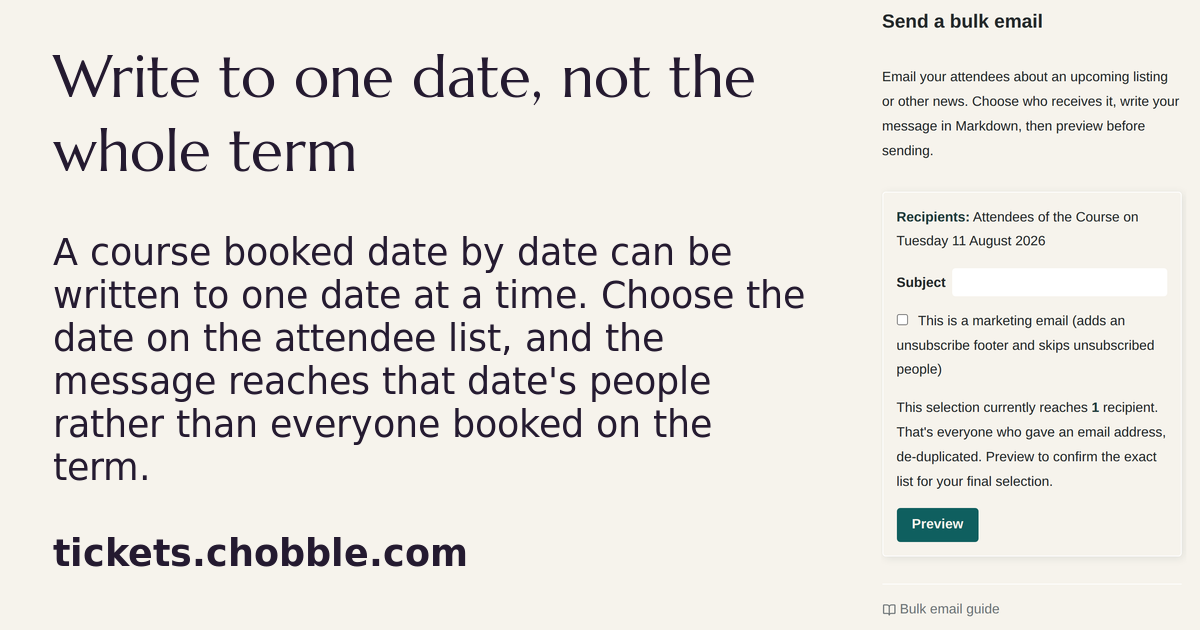
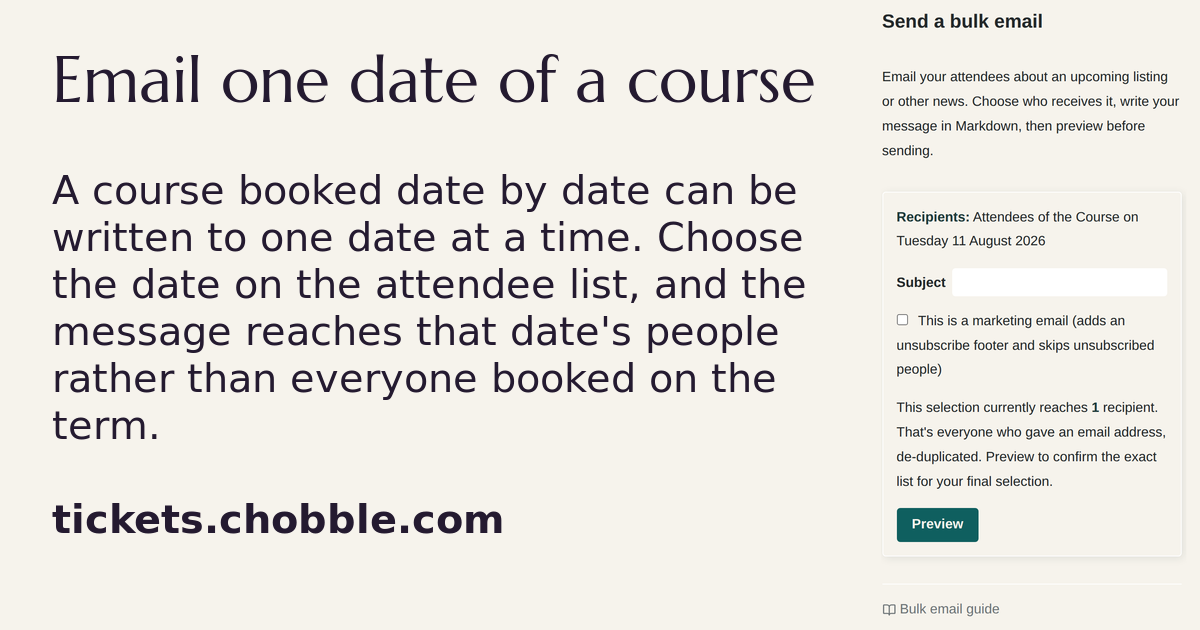
Give the social card a plain label and fix the backlog total
The card's heading was "Write to one date, not the whole term", which is the
contrast-flip the style guide bans. It is now "Email one date of a course",
which says the same thing without setting something up to knock it down. The
card is drawn from that copy, so the evidence was re-read and re-imported
rather than edited underneath a picture nobody redrew.

The illustration backlog sentence still said 97 editorial pages after the
table above it moved to 96.

Claude-Session: https://claude.ai/code/session_01UU8geYkKNGrFu5ArzfxSC6

Changed region(s): [[0.0308, 0.2111, 0.6783, 0.6937], [0.0308, 0.0905, 0.6783, 0.181], [0.0308, 0.7238, 0.4317, 0.9048]]

diff --git a/scripts/social-screenshot-copy.js b/scripts/social-screenshot-copy.js
@@ -168,7 +168,7 @@ export const SOCIAL_SCREENSHOT_COPY = {
     body: "For each parent unit, customers choose one child listing from a set. A sole available child is added automatically.",
   },
   "one-days-audience": {
-    heading: "Write to one date, not the whole term",
+    heading: "Email one date of a course",
     body: "A course booked date by date can be written to one date at a time. Choose the date on the attendee list, and the message reaches that date's people rather than everyone booked on the term.",
   },
   "payment-provider-choice": {

diff --git a/IMAGE-SCENARIOS.md b/IMAGE-SCENARIOS.md
@@ -18,7 +18,7 @@ and loading placeholders do not.
 | Non-indexed utility pages | 2 | 0 | 2 |
 | **All rendered pages** | **162** | **64** | **98** |
 
-The 97 editorial pages are the main illustration backlog. The two utility
+The 96 editorial pages are the main illustration backlog. The two utility
 pages are listed separately at the end.
 
 ## Asset Rules
